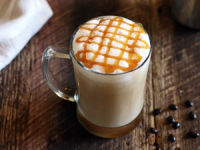
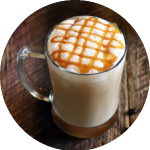
hotdrink

diff --git a/responsive-project/index.html b/responsive-project/index.html
@@ -208,6 +208,9 @@ Menu Item
      <li>—</li>
      </ul>
    </div>
+   <br>
+   <img src="https://raw.githubusercontent.com/tcolvin4/GRA-321/master/responsive-project/img/hotdrink.png" alt="Coffee" class="center">
+
 
        </div>
    </div>

diff --git a/responsive-project/css/style.css b/responsive-project/css/style.css
@@ -5,6 +5,13 @@ body {
   font-family: 'Open Sans', sans-serif;
 }
 
+.center {
+  display: block;
+  margin-left: auto;
+  margin-right: auto;
+  width: 200px;
+}
+
 
 /* menu tabs */
 .tabs {
